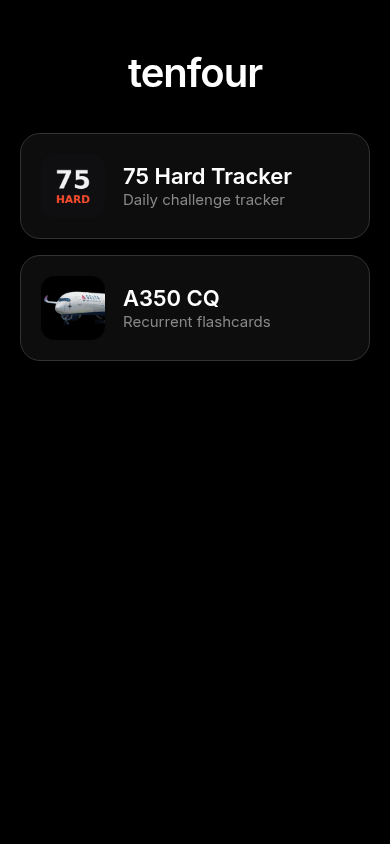
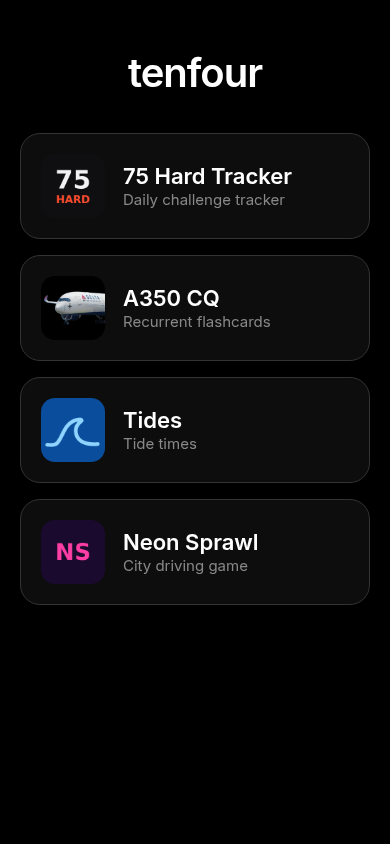
Add Tides and Neon Sprawl

diff --git a/index.html b/index.html
@@ -11,4 +11,6 @@ a:active{background:#1a1a1a}img{width:64px;height:64px;border-radius:14px}b{font
 <h1>tenfour</h1>
 <a href="https://rossow33-ai.github.io/t75-54bc1edb/"><img src="app-75hard.png" alt=""><div><b>75 Hard Tracker</b><span>Daily challenge tracker</span></div></a>
 <a href="https://rossow33-ai.github.io/recurrent-flashcards/"><img src="app-a350.png" alt=""><div><b>A350 CQ</b><span>Recurrent flashcards</span></div></a>
+<a href="https://rossow33-ai.github.io/tides-11b9f5b618f0d411/"><img src="app-tides.png" alt=""><div><b>Tides</b><span>Tide times</span></div></a>
+<a href="https://rossow33-ai.github.io/neon-sprawl/"><img src="app-neon.png" alt=""><div><b>Neon Sprawl</b><span>City driving game</span></div></a>
 <script>if('serviceWorker'in navigator)navigator.serviceWorker.register('sw.js')</script></body></html>

diff --git a/sw.js b/sw.js
@@ -1,2 +1,2 @@
-const C='tenfour-v1';self.addEventListener('install',e=>e.waitUntil(caches.open(C).then(c=>c.addAll(['./','index.html','icon-192.png','app-75hard.png','app-a350.png']))));
+const C='tenfour-v2';self.addEventListener('install',e=>e.waitUntil(caches.open(C).then(c=>c.addAll(['./','index.html','icon-192.png','app-75hard.png','app-a350.png','app-tides.png','app-neon.png']))));
 self.addEventListener('fetch',e=>e.respondWith(fetch(e.request).catch(()=>caches.match(e.request))));
